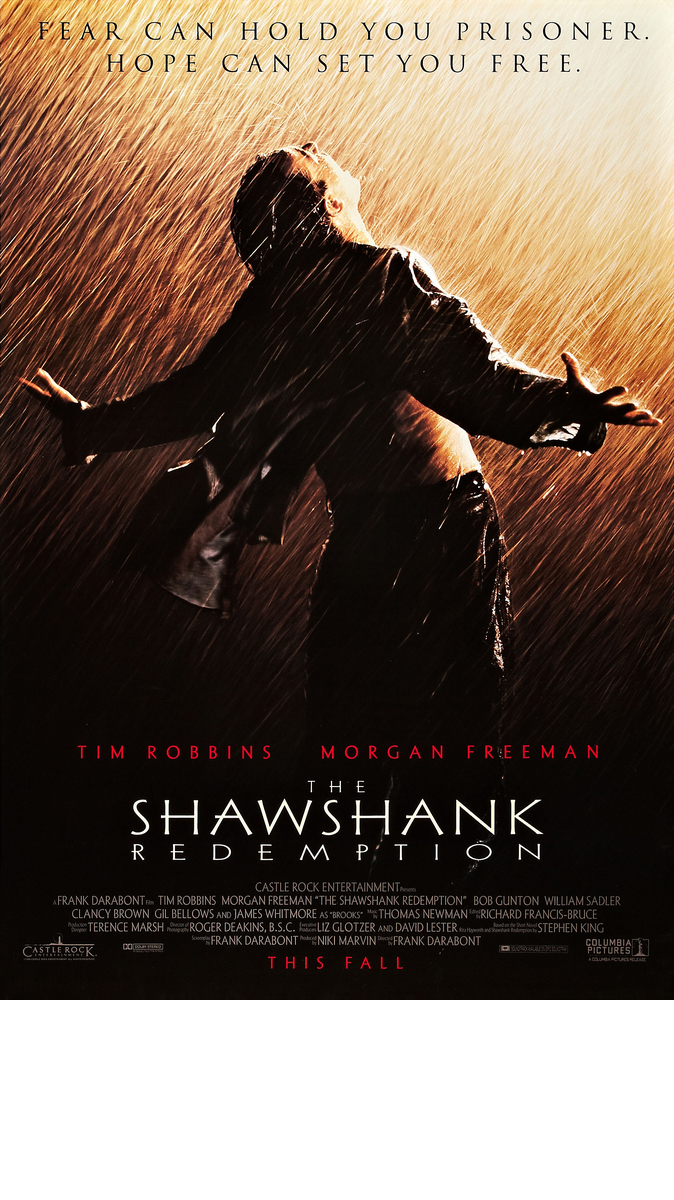
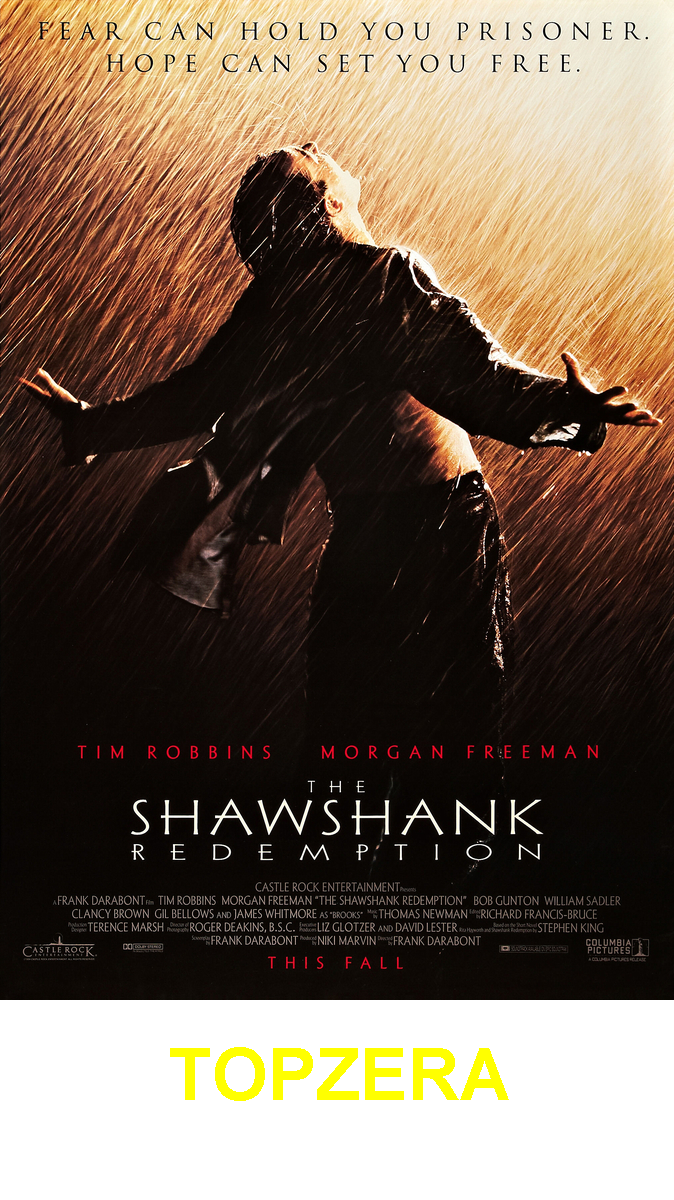
create text on image

Changed region(s): [[0.2493, 0.8633, 0.7478, 0.925]]

diff --git a/src/GeradorDeFigurinhas.java b/src/GeradorDeFigurinhas.java
@@ -1,3 +1,5 @@
+import java.awt.Color;
+import java.awt.Font;
 import java.awt.Graphics2D;
 import java.awt.image.BufferedImage;
 import java.io.File;
@@ -21,10 +23,16 @@ public class GeradorDeFigurinhas {
       Graphics2D graphics = (Graphics2D) novaImagem.getGraphics();
       graphics.drawImage(imagemOriginal, 0, 0, null);
 
+      //escrever na imagem
+      var fonte = new Font(Font.SANS_SERIF, Font.BOLD, 72);
+      graphics.setFont(fonte);
+      graphics.setColor(Color.YELLOW);
+      graphics.drawString("TOPZERA", largura / 4, novaAltura - 100);
+
       //verificando se ja existe a pasta e criando caso nao exista
       var theDir = new File("saida");
       if (!theDir.exists()) {
-      theDir.mkdirs();
+        theDir.mkdirs();
       }
 
       //escrever a nova imagem em arquivo
